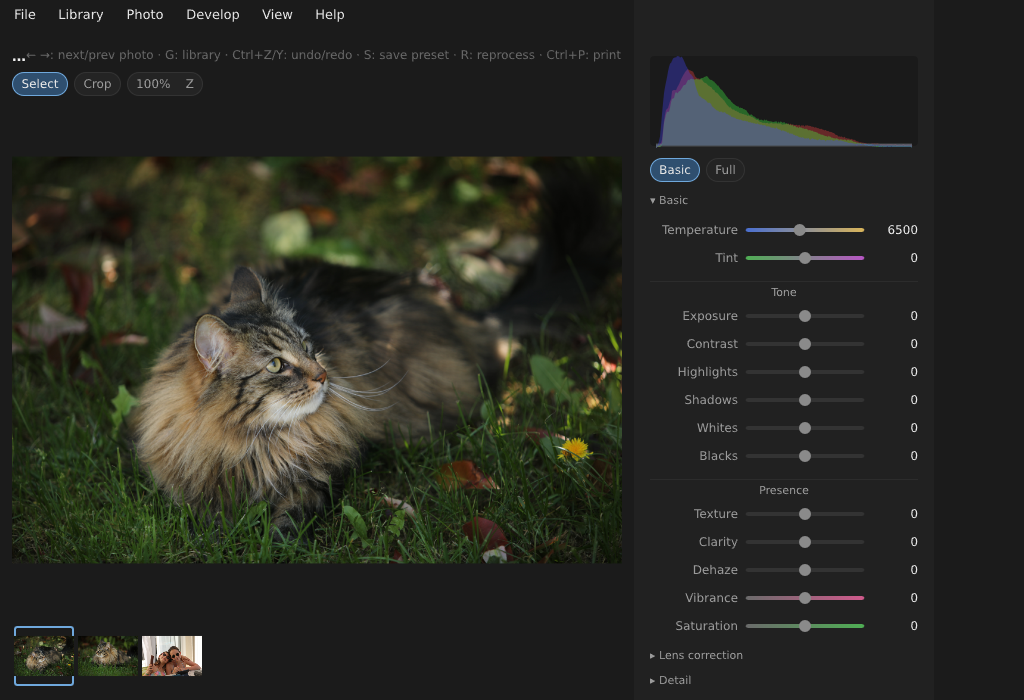
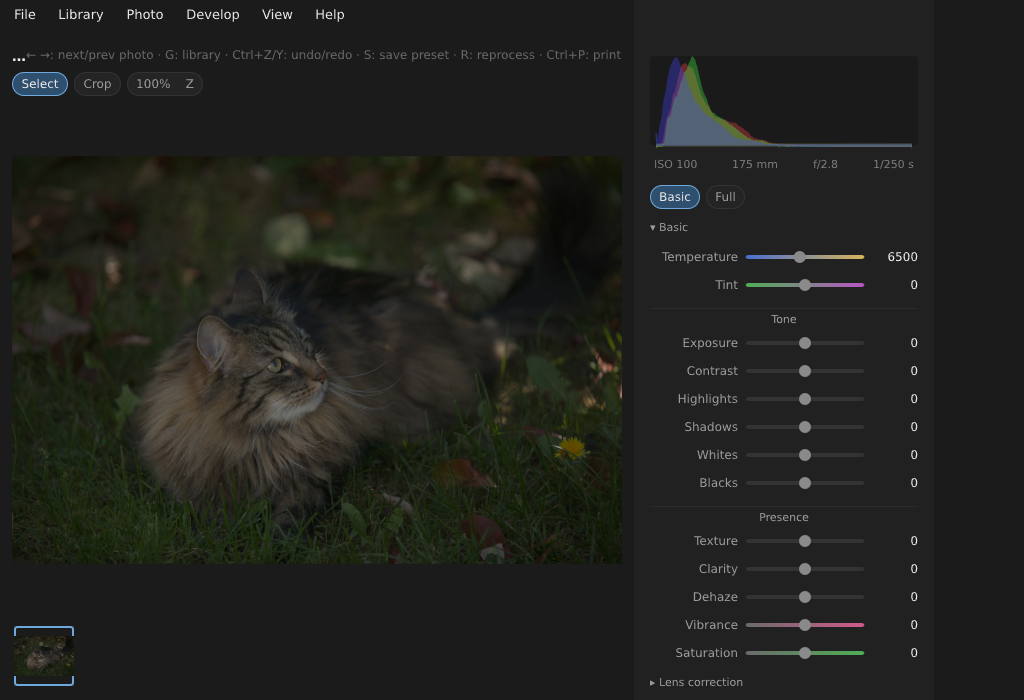
feat(studio): les quatre valeurs de prise de vue sous l'histogramme (ADR 0054)
Sensibilité, focale, ouverture, temps de pose, réparties sur la largeur du
panneau : ce qu'on vérifie en corrigeant une exposition, à l'endroit où on
regarde déjà. Le reste des métadonnées ne bouge pas de la bibliothèque.

Elles décrivent le fichier et non la révision : lues dans le catalogue,
rafraîchies au changement de photo, et absentes — ligne comprise — quand le
fichier n'a rien enregistré, plutôt qu'une rangée de tirets.

diff --git a/crates/leyline-studio/src/wiring/develop/mod.rs b/crates/leyline-studio/src/wiring/develop/mod.rs
@@ -161,6 +161,7 @@ pub(crate) fn refresh_develop(app: &mut App, window: &StudioWindow) -> Result<()
             develop::histogram_layout(&bins[2], scale_max, CANVAS.0, CANVAS.1),
         ));
     }
+    show_capture_info(app, window, asset);
     // The develop target just changed (entered develop, or navigated to a
     // neighboring photo): any cached "before" render is for the wrong photo
     // now, and Compare Before/After starts back on "after" each time.
@@ -168,6 +169,44 @@ pub(crate) fn refresh_develop(app: &mut App, window: &StudioWindow) -> Result<()
     DevelopState::get(window).set_dev_compare(false);
     DevelopState::get(window).set_develop_image_before(slint::Image::default());
     Ok(())
+}
+
+/// Fills the four capture values shown under the histogram — sensitivity,
+/// focal length, aperture, time (ADR 0054 §2).
+///
+/// They describe the *file*, not the revision, so they come from the catalog
+/// rather than the edit session, and a photo whose file recorded none of them
+/// leaves all four empty: the panel then shows no row at all rather than a
+/// line of dashes. A read failure is treated the same way — the capture strip
+/// is an aid, never a reason to fail refreshing the view.
+fn show_capture_info(app: &mut App, window: &StudioWindow, asset: AssetId) {
+    let meta = app
+        .library
+        .catalog()
+        .asset_details(asset)
+        .ok()
+        .and_then(|details| details.metadata);
+    let state = DevelopState::get(window);
+    state.set_dev_iso(SharedString::from(
+        meta.as_ref()
+            .and_then(|m| m.iso)
+            .map_or_else(String::new, format::iso),
+    ));
+    state.set_dev_focal(SharedString::from(
+        meta.as_ref()
+            .and_then(|m| m.focal_length)
+            .map_or_else(String::new, format::focal),
+    ));
+    state.set_dev_aperture(SharedString::from(
+        meta.as_ref()
+            .and_then(|m| m.aperture)
+            .map_or_else(String::new, format::aperture),
+    ));
+    state.set_dev_shutter(SharedString::from(
+        meta.as_ref()
+            .and_then(|m| m.shutter)
+            .map_or_else(String::new, format::shutter),
+    ));
 }
 
 /// Opens develop mode for an explicit `(asset, version)` pair rather than

diff --git a/crates/leyline-studio/src/format.rs b/crates/leyline-studio/src/format.rs
@@ -48,6 +48,11 @@ pub fn shutter(value: Rational) -> String {
     }
 }
 
+/// A sensitivity as `ISO 100`.
+pub fn iso(value: u32) -> String {
+    format!("ISO {value}")
+}
+
 /// An aperture as `f/5.6`.
 pub fn aperture(value: Rational) -> String {
     format!("f/{}", trim(value.as_f64()))
@@ -82,8 +87,8 @@ pub fn dimensions(width: Option<u32>, height: Option<u32>) -> String {
 /// Absent values are simply skipped; all absent gives an empty string.
 pub fn exposure_line(meta: &Metadata) -> String {
     let mut parts = Vec::new();
-    if let Some(iso) = meta.iso {
-        parts.push(format!("ISO {iso}"));
+    if let Some(value) = meta.iso {
+        parts.push(iso(value));
     }
     if let Some(value) = meta.shutter {
         parts.push(shutter(value));
@@ -141,6 +146,7 @@ mod tests {
         assert_eq!(aperture(rational(56, 10)), "f/5.6");
         assert_eq!(aperture(rational(8, 1)), "f/8");
         assert_eq!(focal(rational(70, 1)), "70 mm");
+        assert_eq!(iso(100), "ISO 100");
     }
 
     #[test]

diff --git a/docs/adr/0054-first-run-and-basic-mode.md b/docs/adr/0054-first-run-and-basic-mode.md
@@ -89,6 +89,15 @@ référence dans `assets/` :
   Et le signe explicite (`+12`) n'apparaît que sur les réglages à deux sens : une
   température en kelvins est une quantité, pas un écart.
 
+Sous l'histogramme, **quatre valeurs de prise de vue** : sensibilité, focale,
+ouverture, temps de pose, réparties sur la largeur. C'est ce qu'on vérifie *en
+corrigeant* une exposition — « est-ce que c'était déjà à 3200 ISO ? » — alors
+que le reste des métadonnées (fichier, dimensions, boîtier, objectif,
+mots-clés) reste où il est, dans le panneau de la bibliothèque. Elles décrivent
+le fichier et non la révision : elles viennent du catalogue, ne changent qu'en
+changeant de photo, et un fichier qui n'en a enregistré aucune n'affiche pas
+une ligne de tirets — la ligne disparaît.
+
 Le panneau ne liste plus les préréglages : c'est la *modification en cours*, pas
 la bibliothèque des modifications. Enregistrer, appliquer et supprimer un
 préréglage vivent dans le menu **Develop**, où étaient déjà les deux premiers.
